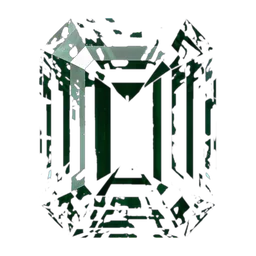
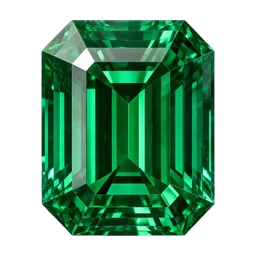
v8.1: brighter emerald symbol and mobile visual polish.
Regenerate the emerald slot symbol as a lighter, more saturated
step-cut gem so it reads on dark reels. Tighten the 390px layout:
hero and feature tiles on the home fold, a one-line lobby back
button, slot and table controls above the bottom nav, a compact
roulette board, and artwork on the poker menu. Game math is unchanged.

diff --git a/styles.css b/styles.css
@@ -2131,3 +2131,66 @@ body.view-table .site-footer { display: none; }
   z-index: 1;
   max-width: none;
 }
+
+/* ============================================================
+   v8.1 polish — brighter emerald is a raster swap; these rules
+   tighten mobile contrast, alignment and fold at ~390×844.
+   ============================================================ */
+:root { --hud-h: 76px; }
+
+#btn-lobby-back { white-space: nowrap; flex-shrink: 0; padding: .45rem .75rem; }
+
+.vp-pays { padding-right: 2.6rem; } /* keep the rules ? off the 800× */
+
+@media (max-width: 800px) {
+  .top-bar {
+    position: fixed; top: 0; left: 0; right: 0;
+    z-index: 40;
+  }
+  body.v8 { padding-top: calc(var(--hud-h) + env(safe-area-inset-top, 0px)); }
+
+  /* Home: drop duplicate balance / shop / prizes so the hero fits */
+  .home-balance { display: none; }
+  .home-actions .js-shop, .home-actions .js-prizes { display: none; }
+  .mode-banner { font-size: .6rem; padding: .28rem .5rem; line-height: 1.3; }
+  .home-marquee { padding: .55rem .7rem .6rem; margin-bottom: .45rem; }
+  .home-title { font-size: 1.4rem !important; }
+  .home-hud { margin: .35rem 0 .45rem; gap: .4rem; }
+  .hero { min-height: 200px; }
+  .jackpot-plaque strong, .home-ticker strong { font-size: 1.45rem; }
+  .home-profile { padding: .45rem .7rem; }
+
+  /* Slots: keep SPIN above the bottom nav on shorter phones */
+  :root { --mw-h: calc(var(--mw-col) * 3.25); --mw-top: calc(var(--mw-col) * .66); }
+  body.view-slots .btn-spin { width: 70px; height: 70px; max-width: 70px; }
+  body.view-slots .marquee { padding-top: 6px; padding-bottom: 4px; }
+  body.view-slots .cbtn { height: 34px; font-size: .58rem; }
+
+  /* Tables: hide duplicate coin chip, tighten chrome, clear the nav */
+  .stage-balance { display: none; }
+  .stage-head { margin: .1rem 0 .2rem; gap: .4rem; flex-wrap: nowrap; }
+  .stage-head h2 { font-size: 1.02rem; white-space: nowrap; overflow: hidden; text-overflow: ellipsis; min-width: 0; }
+  #btn-stage-back { padding: .35rem .55rem; font-size: .76rem; white-space: nowrap; flex-shrink: 0; }
+  .game-stage { padding: 0 .5rem .6rem; margin-bottom: 0; }
+
+  body.view-table .wheel-box { max-width: 200px; padding-bottom: 26px; margin: 0 auto; }
+  body.view-table .rl-history { margin-bottom: .15rem; min-height: 0; }
+  body.view-table .felt-table { padding: .45rem .4rem .55rem; min-height: 0; }
+  body.view-table .felt-eu { grid-auto-rows: minmax(18px, auto); gap: 2px; font-size: .56rem; }
+  body.view-table .felt-eu button { min-height: 18px; }
+  body.view-table .chip-rack { margin: .3rem 0 .15rem; max-width: calc(4 * 46px + 3 * 6px); gap: 6px; }
+  body.view-table .chip { width: 44px; height: 44px; font-size: .6rem; }
+  body.view-table .table-msg, body.view-table .step-prompt { margin: .15rem 0; font-size: .75rem; }
+  body.view-table .actions-row { margin-top: .15rem; display: flex; flex-wrap: wrap; gap: .35rem; justify-content: center; }
+  body.view-table .bet-circle { width: 76px; height: 76px; margin: .35rem auto; }
+  body.view-table .vp-pays { font-size: .7rem; }
+  body.view-table .vp-pays li { padding: .22rem .55rem; }
+  body.view-table .vp-card .pcard { width: 58px; height: 82px; }
+
+  .poker-menu { gap: .8rem; margin-top: .4rem; }
+  .poker-pick { min-height: 0; }
+}
+@media (max-width: 800px) {
+  body.view-table .rl-history.empty { display: none; }
+  body.view-table .wheel-box { max-width: 184px; padding-bottom: 18px; }
+}

diff --git a/casino.js b/casino.js
@@ -290,14 +290,24 @@
     stage("Poker", `
       <div class="poker-menu">
         <a class="lobby-tile poker-pick" href="#/videopoker">
-          <span class="glyph">♚</span>
-          <h3>Video Poker</h3>
-          <p>Jacks or Better · 9/6 full-pay paytable. Hold and draw five cards.</p>
+          <div class="tile-media">
+            <img class="tile-art" src="/assets/tiles/poker-sm.webp" srcset="/assets/tiles/poker-sm.webp 400w, /assets/tiles/poker.webp 800w" sizes="(max-width: 720px) 100vw, 480px" alt="" loading="lazy" decoding="async" />
+            <span class="tile-shine" aria-hidden="true"></span>
+          </div>
+          <div class="tile-copy">
+            <h3>Video Poker</h3>
+            <p>Jacks or Better · 9/6 full-pay. Hold and draw five cards.</p>
+          </div>
         </a>
         <a class="lobby-tile poker-pick" href="#/threecard">
-          <span class="glyph">♛</span>
-          <h3>Three Card Poker</h3>
-          <p>Ante/Play + Pair Plus. Dealer qualifies Queen-high.</p>
+          <div class="tile-media">
+            <img class="tile-art" src="/assets/tiles/blackjack-sm.webp" srcset="/assets/tiles/blackjack-sm.webp 400w, /assets/tiles/blackjack.webp 800w" sizes="(max-width: 720px) 100vw, 480px" alt="" loading="lazy" decoding="async" />
+            <span class="tile-shine" aria-hidden="true"></span>
+          </div>
+          <div class="tile-copy">
+            <h3>Three Card Poker</h3>
+            <p>Ante/Play + Pair Plus. Dealer qualifies Queen-high.</p>
+          </div>
         </a>
       </div>`, "#/lobby");
   }

diff --git a/index.html b/index.html
@@ -301,7 +301,7 @@
         <h2>Game Floor</h2>
         <p class="hint">Fair games, coin bets only. Every outcome is decided on the server. Coins have no cash value.</p>
       </div>
-      <a class="btn btn-outline" href="#/home" id="btn-lobby-back">Back to home</a>
+      <a class="btn btn-outline" href="#/home" id="btn-lobby-back">← Home</a>
     </div>
     <div class="lobby-cats" id="lobby-grid"></div>
   </section>
